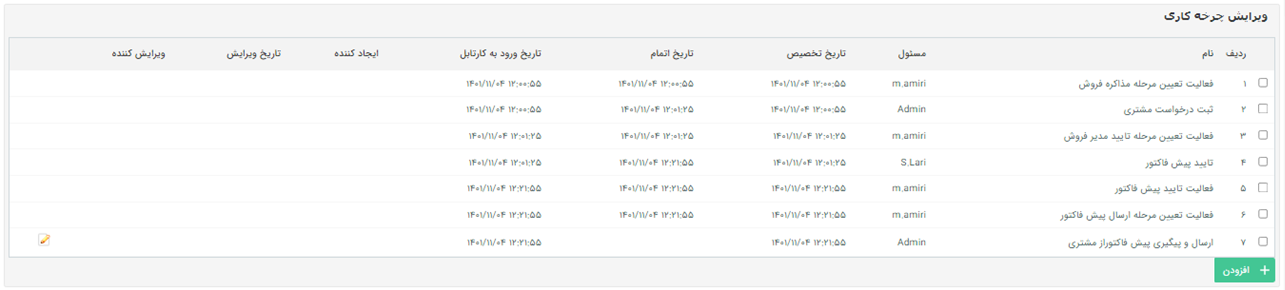
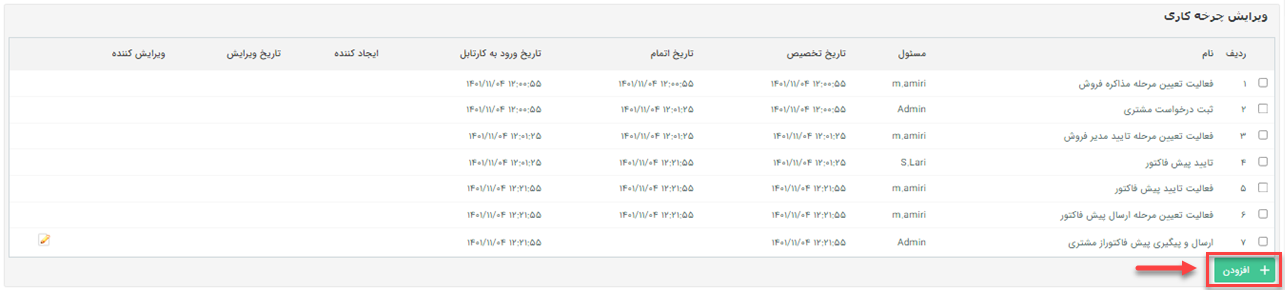
Add new pics for process edition

Changed region(s): [[0.8716, 0.869, 1.0, 1.0]]

diff --git a/help2.5.4/Settings/Personalization-crm/Overview/Process-design/WorkFlowEdition.md b/help2.5.4/Settings/Personalization-crm/Overview/Process-design/WorkFlowEdition.md
@@ -8,11 +8,16 @@
 1. به صفحه مشخصات آیتمی که قصد ویرایش چرخهکاری آن را دارید، بروید (میتوانید آن را در لیست مربوط به آن بیابید).
 2. در تب **مشخصات** آیتم، روی [مشاهده چرخهکاری](https://github.com/1stco/PayamGostarDocs/blob/master/help2.5.4/Settings/Personalization-crm/Overview/Process-design/ViewWorkflowItems.md) کلیک کنید. صفحهی پیش روی شما گردش کاری که آیتم تاکنون داشته را به همراه جزئیات هر مرحله، نشان میدهد که تنها لیست **کارتابلها** و **فعالیتهای انتظار** در این قسمت فهرست میشود.
 
+![مسیر مشاهده گردش کار در صفحه اطلاعات آیتم](./Images/View-Item-process-button.png)
+
+در صفحه پیشرو جزئیات مربوط به هر مرحله در اختیار شما قرار داده میشود.
+
 ![صفحه مشاهده چرخهکاری](./Images/Process-edition-overview.png)
 
   **A.** در این جدول لیست کارتابل و فعالیتهای انتظار گذشته طی فرآیند را مشاهده خواهید کرد.<br>
   **B.** زمانی که روی هرکدام از ردیفهای کارتابل یا فعالیت انتظار از جدول بالا کلیک کنید، جزئیات اطلاعات آن در این دو جدول نمایش داده میشود.<br>
-
+  **C.** در این جدول لیست سوابقی که در هر مرحله ذخیره شده باشد، نمایش داده میشود.
+  
 > **نکته** <br>
 > برای مشاهده گزینه **مشاهده گردش کار** کاربر باید مجوز **مشاهده چرخهکاری** را روی آیتم داشته باشد.
 
@@ -37,24 +42,41 @@
 > لازم به ذکر است تغییرات پس از **یک ساعت** در فرآیند اعمال خواهد شد.
 
 ### مشاهده سابقه تغییرات در ویرایش چرخهکاری
-برای هر دو حالت افزودن کارتابل/فعالیت جدید به انتهای فرآیند و ویرایش مسئول کارتابل، **نام ایجاد کننده**، **نام ویرایش کننده** و **زمان دقیق تغییرات** اعمال شده در لیست مراحل فرآیند، نمایش داده خواهد شد.
+برای هر دو حالت افزودن کارتابل/فعالیت جدید به انتهای فرآیند و ویرایش مسئول آخرین کارتابل، **نام ایجاد کننده**، **نام ویرایش کننده** و **زمان دقیق تغییرات** اعمال شده در لیست مراحل فرآیند، نمایش داده خواهد شد.
 
 ![مشاهده سابقه تغییرات ویرایش چرخهکاری](./Images/History-of-changes-in-process.png)
 
 ### دسترسیهای مورد نیاز برای ویرایش چرخههای کاری
-مالک آیتم و مدیر سیستم به طور کلی امکان ویرایش چرخهکاری را دارند. علاوه بر آن برخی مجوزهای مدیریتی (مثل مدیر مالی، مدیر فروش و ...) نیز دسترسی ویرایش چرخهکاری آیتمهای مختلف را به کاربر میدهد که در ادامه به تفکیک توضیح داده میشود.
-
-|             |          Grouping           ||
-First Header  | Second Header | Third Header |
- ------------ | :-----------: | -----------: |
-Content       |          *Long Cell*        ||
-Content       |   **Cell**    |         Cell |
-
-New section   |     More      |         Data |
-And more      | With an escaped '\|'         ||  
-[Prototype table]
+**مالک آیتم** و **مدیر سیستم** به طور کلی امکان ویرایش چرخهکاری را دارند. علاوه بر آن برخی مجوزهای مدیریتی (مثل مدیر مالی، مدیر فروش و ...) نیز دسترسی ویرایش چرخهکاری آیتمهای مختلف را به کاربر میدهد که در ادامه به تفکیک توضیح داده میشود.
 
 
+- **آیتمهایی که با مجوز «مدیر ارتباط با مشتریان» دسترسی ویرایش چرخهکاری آن را وجود دارد**
+   - وظیفه
+   - یادداشت
+   - فایل
+   - قرارملاقات
+   - فرم
+   - درخواست پشتیبانی
+   - تماس تلفنی
+
+- **آیتمهایی که کاربر با مجوز «مدیر فروش» دسترسی ویرایش چرخهکاری آن را دارد**
+   - پیشفاکتورهای خرید و فروش
+   - فاکتورهای خرید و فروش
+   - فاکتورهای برگشت از خرید و فروش
+   - قرارداد
+   - فرصت
+
+- **آیتمهایی که کاربر با مجوز «مدیر انبار» امکان ویرایش چرخهکاری آن را دارد**
+   - انواع حوالههای فروش، معمولی، انتقالی و مرجوعی
+   - انواع رسیدهای معمولی، انتقالی و مرجوعی
+   - رسید موجودی اولیه
+
+- **آیتمهایی که کاربر با مجوز «مدیر مالی» امکان ویرایش چرخهکاری آن را دارد**
+   - دریافت
+   - پرداخت
+
+- **آیتمهایی که کاربر با مجوز «مدیر بانک اطلاعاتی» امکان ویرایش چرخهکاری آن را دارد**
+   - انواع هویت
 
 
 
@@ -63,6 +85,8 @@ And more      | With an escaped '\|'         ||
 
 
 
-|            Grouping         |            | 
-first header| Second header | theird header|
--------     |  :----        | :-----       |
+
+
+
+
+ |
